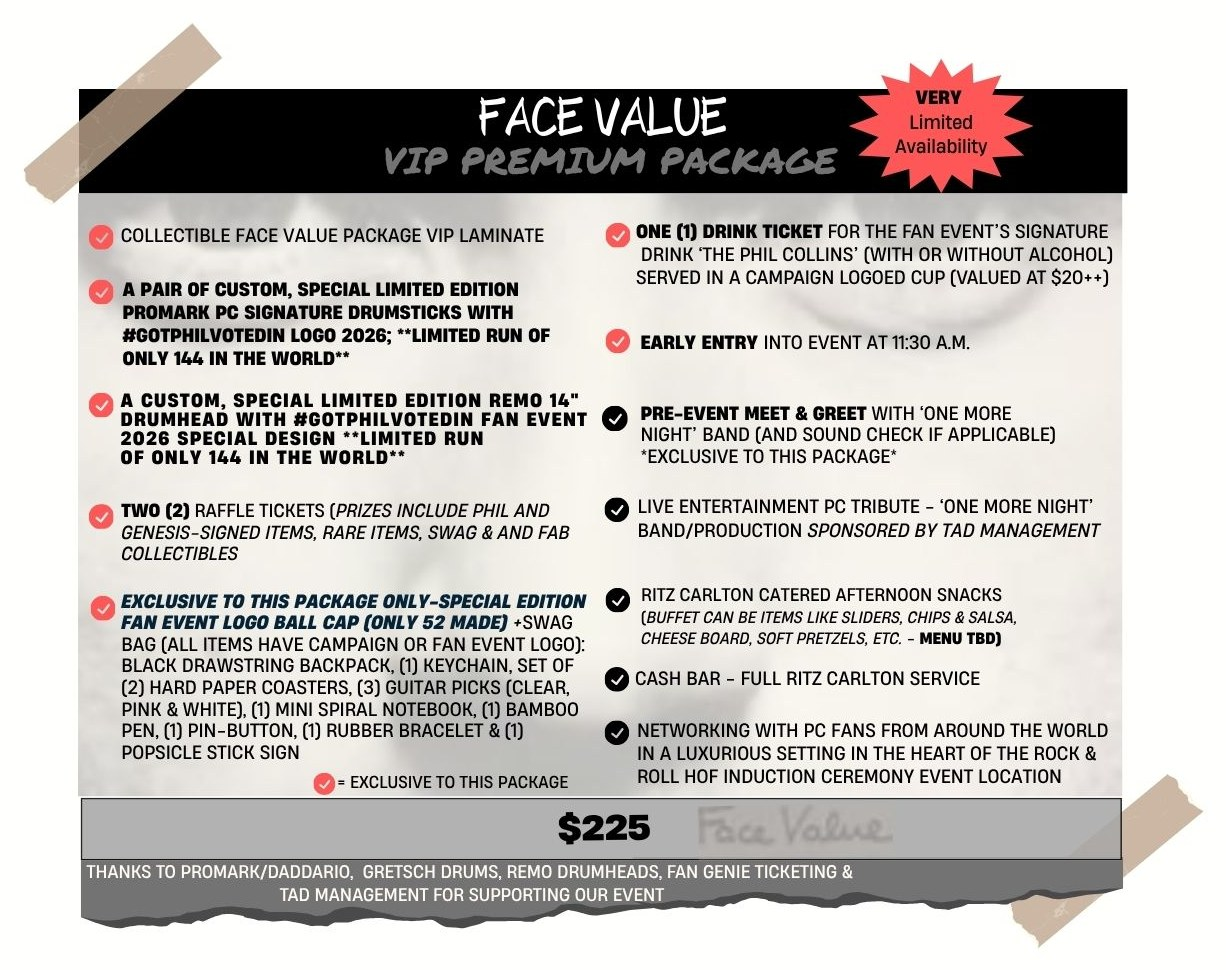
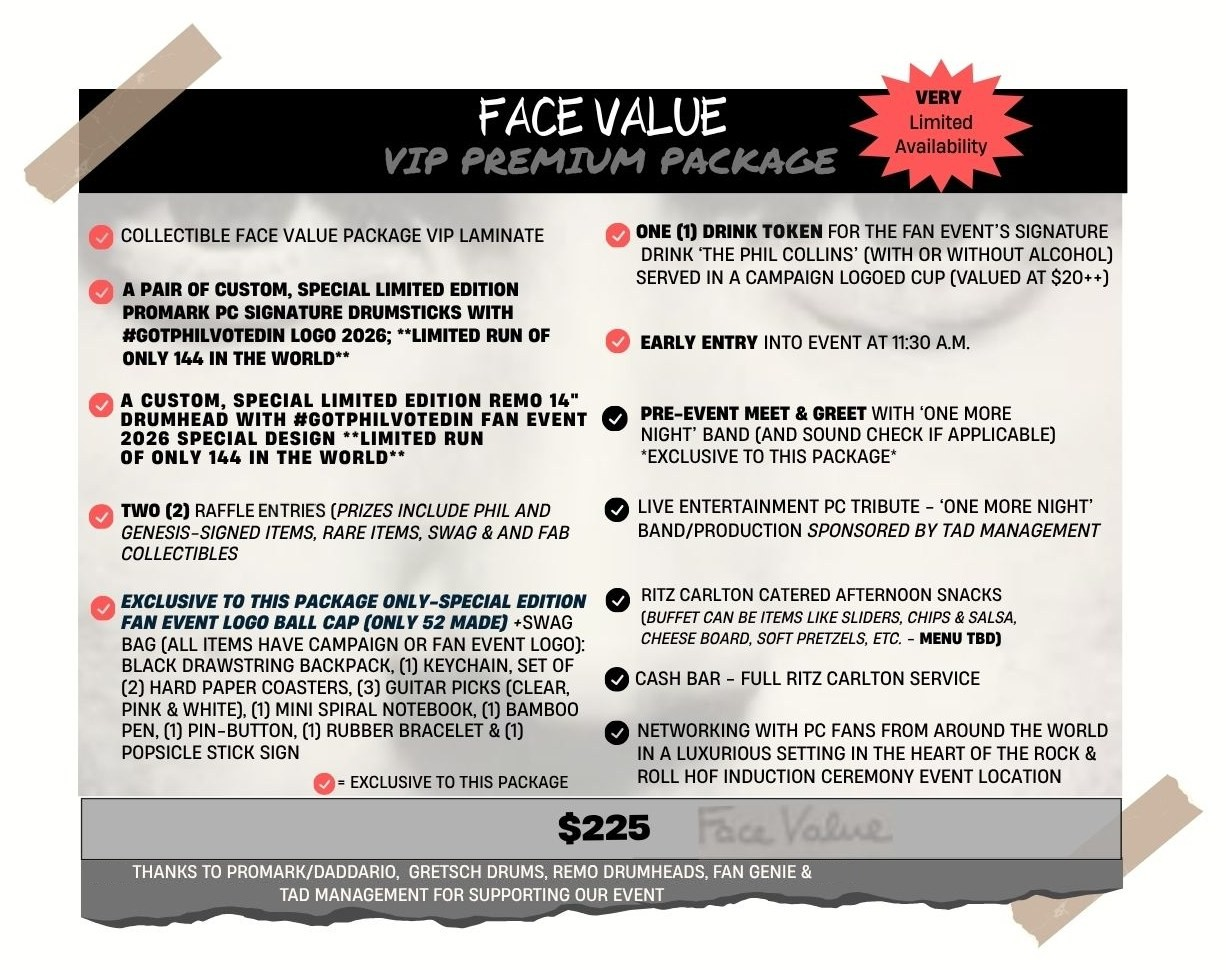
Got Phil Voted In: remove remaining ticket wording from the package cards
- Raffle tickets -> raffle entries/entry on cards 1-3 (lettering from the cards)
- Card 1: "Drink ticket" -> "Drink token" (page copy matches)
- Cards 1-3 sponsor line: "Fan Genie Ticketing &" -> "Fan Genie &", re-centred
- Card 5: "committed to the ticket packages" -> "committed to the packages"
- Bump ?v= on the changed cards

Changed region(s): [[0.093, 0.866, 0.6819, 0.9278], [0.217, 0.4948, 0.4339, 0.5567], [0.6199, 0.2165, 0.6819, 0.2474]]

diff --git a/gotphilvotedin/index.html b/gotphilvotedin/index.html
@@ -208,22 +208,22 @@ footer a:hover{color:var(--accent)}
      ====================================================== -->
 <section class="grid" id="packages">
   <article class="tile featured">
-    <button class="art" type="button" data-full="/gotphilvotedin/img/package-1.jpg" aria-label="View full Face Value package card">
+    <button class="art" type="button" data-full="/gotphilvotedin/img/package-1.jpg?v=2" aria-label="View full Face Value package card">
       <span class="badge hot">VIP Premium &middot; Very limited</span>
-      <img src="/gotphilvotedin/img/package-1.jpg" alt="Face Value package card">
+      <img src="/gotphilvotedin/img/package-1.jpg?v=2" alt="Face Value package card">
       <span class="zoom"><svg viewBox="0 0 24 24"><circle cx="11" cy="11" r="7"/><path d="M21 21l-4.3-4.3M11 8v6M8 11h6"/></svg>Full details</span>
     </button>
     <div class="body">
       <h3><small>VIP Premium Package</small><a href="https://app.fangenie.com/ritz-carlton---ion-terrace/got-phil-voted-in---fan-event/53XJTbeTQ9" target="_blank" rel="noopener">Face Value</a></h3>
       <div class="price"><b>$225</b><span>per person</span></div>
-      <ul class="perks"><li>Collectible Face Value VIP laminate</li><li><b>Early access at 11:30 AM</b></li><li class="wide">Limited-edition Promark Phil Collins signature drumsticks with the #GotPhilVotedIn 2026 logo &mdash; <b>only 144 in the world</b></li><li class="wide">Limited-edition Remo 14&Prime; drumhead, Fan Event 2026 design &mdash; <b>only 144 in the world</b></li><li class="wide"><b>Exclusive pre-event meet &amp; greet</b> with tribute band &lsquo;One More Night&rsquo;</li><li class="wide">Exclusive Fan Event logo ball cap (only 52 made) plus the full swag bag: backpack, keychain, coasters, guitar picks, notebook, pen, pin, bracelet &amp; sign</li><li class="wide">Drink voucher for &lsquo;The Phil Collins&rsquo; signature drink in a campaign cup</li><li class="wide">Two raffle entries: Phil &amp; Genesis-signed items, rare collectibles</li><li>Live Phil Collins tribute &lsquo;One More Night&rsquo;</li><li>Ritz-Carlton catered snacks &amp; cash bar</li></ul>
+      <ul class="perks"><li>Collectible Face Value VIP laminate</li><li><b>Early access at 11:30 AM</b></li><li class="wide">Limited-edition Promark Phil Collins signature drumsticks with the #GotPhilVotedIn 2026 logo &mdash; <b>only 144 in the world</b></li><li class="wide">Limited-edition Remo 14&Prime; drumhead, Fan Event 2026 design &mdash; <b>only 144 in the world</b></li><li class="wide"><b>Exclusive pre-event meet &amp; greet</b> with tribute band &lsquo;One More Night&rsquo;</li><li class="wide">Exclusive Fan Event logo ball cap (only 52 made) plus the full swag bag: backpack, keychain, coasters, guitar picks, notebook, pen, pin, bracelet &amp; sign</li><li class="wide">Drink token for &lsquo;The Phil Collins&rsquo; signature drink in a campaign cup</li><li class="wide">Two raffle entries: Phil &amp; Genesis-signed items, rare collectibles</li><li>Live Phil Collins tribute &lsquo;One More Night&rsquo;</li><li>Ritz-Carlton catered snacks &amp; cash bar</li></ul>
       <a class="cta" href="https://app.fangenie.com/ritz-carlton---ion-terrace/got-phil-voted-in---fan-event/53XJTbeTQ9" target="_blank" rel="noopener">Register Here <svg viewBox="0 0 24 24"><path d="M5 12h14M13 6l6 6-6 6"/></svg></a>
     </div>
   </article>
   <article class="tile t2">
-    <button class="art" type="button" data-full="/gotphilvotedin/img/package-2.jpg?v=2" aria-label="View full Hello, I Must Be Going&hellip; package card">
+    <button class="art" type="button" data-full="/gotphilvotedin/img/package-2.jpg?v=3" aria-label="View full Hello, I Must Be Going&hellip; package card">
       <span class="badge ">VIP &middot; Very limited</span>
-      <img src="/gotphilvotedin/img/package-2.jpg?v=2" alt="Hello, I Must Be Going&hellip; package card">
+      <img src="/gotphilvotedin/img/package-2.jpg?v=3" alt="Hello, I Must Be Going&hellip; package card">
       <span class="zoom"><svg viewBox="0 0 24 24"><circle cx="11" cy="11" r="7"/><path d="M21 21l-4.3-4.3M11 8v6M8 11h6"/></svg>Full details</span>
     </button>
     <div class="body">
@@ -234,9 +234,9 @@ footer a:hover{color:var(--accent)}
     </div>
   </article>
   <article class="tile t3">
-    <button class="art" type="button" data-full="/gotphilvotedin/img/package-3.jpg?v=2" aria-label="View full No Jacket Required package card">
+    <button class="art" type="button" data-full="/gotphilvotedin/img/package-3.jpg?v=3" aria-label="View full No Jacket Required package card">
       <span class="badge ">Fan Package Plus</span>
-      <img src="/gotphilvotedin/img/package-3.jpg?v=2" alt="No Jacket Required package card">
+      <img src="/gotphilvotedin/img/package-3.jpg?v=3" alt="No Jacket Required package card">
       <span class="zoom"><svg viewBox="0 0 24 24"><circle cx="11" cy="11" r="7"/><path d="M21 21l-4.3-4.3M11 8v6M8 11h6"/></svg>Full details</span>
     </button>
     <div class="body">
@@ -261,9 +261,9 @@ footer a:hover{color:var(--accent)}
   </article>
 
   <article class="tile wide" data-go="Email Traci to order &rarr;">
-    <button class="art" type="button" data-full="/gotphilvotedin/img/package-5.jpg?v=2" aria-label="View full No Ticket Required package card">
+    <button class="art" type="button" data-full="/gotphilvotedin/img/package-5.jpg?v=3" aria-label="View full No Ticket Required package card">
       <span class="badge">Collectors only</span>
-      <img src="/gotphilvotedin/img/package-5.jpg?v=2" alt="No Ticket Required package card">
+      <img src="/gotphilvotedin/img/package-5.jpg?v=3" alt="No Ticket Required package card">
       <span class="zoom"><svg viewBox="0 0 24 24"><circle cx="11" cy="11" r="7"/><path d="M21 21l-4.3-4.3M11 8v6M8 11h6"/></svg>Full details</span>
     </button>
     <div class="body">
